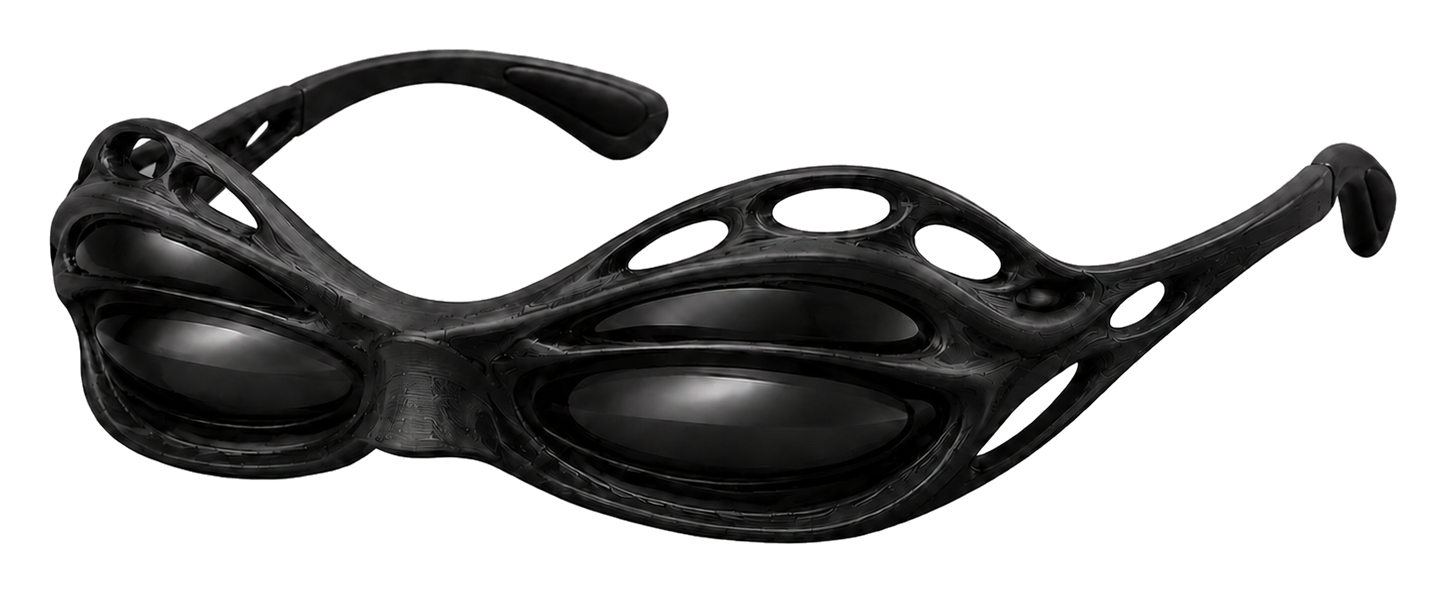
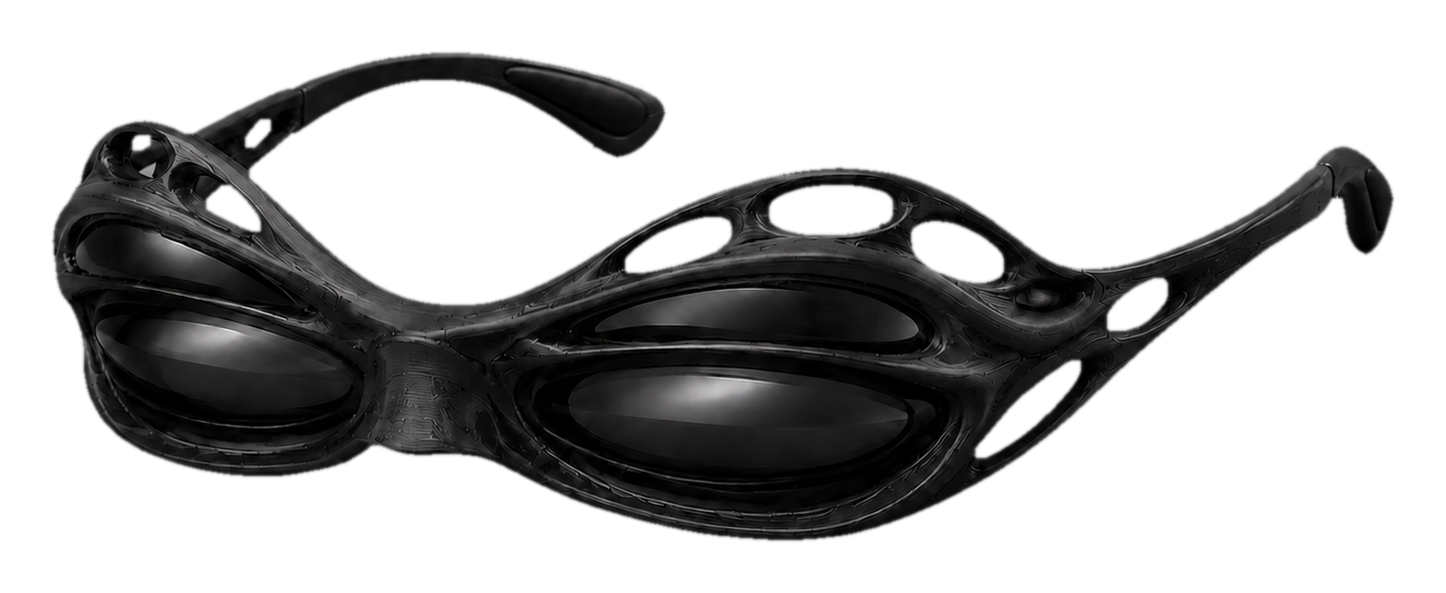
Fix product cutout edges and oversized crop

diff --git a/src/styles.css b/src/styles.css
@@ -318,7 +318,7 @@ a,
   z-index: 2;
   left: 50%;
   top: 56%;
-  width: min(118vw, 1760px);
+  width: min(96vw, 1440px);
   max-width: none;
   transform: translate(-50%, -50%);
   object-fit: contain;
@@ -770,8 +770,8 @@ a,
   }
 
   .giant-product {
-    top: 62%;
-    width: 150vw;
+    top: 58%;
+    width: 110vw;
   }
 
   .object-section {

diff --git a/src/App.jsx b/src/App.jsx
@@ -34,7 +34,7 @@ const COLORWAYS = {
   heat: {
     label: "HEAT",
     number: "03",
-    product: asset("product-heat-cutout.webp"),
+    product: asset("product-heat-cutout.png"),
     fallback: asset("product-heat-white.jpg"),
     card: asset("product-heat-white.jpg"),
     campaign: asset("campaign-heat.jpg"),

diff --git a/scripts/clean-cutouts.py b/scripts/clean-cutouts.py
@@ -1,0 +1,91 @@
+#!/usr/bin/env python3
+"""Remove white matte fringes from the transparent product cutouts."""
+
+from pathlib import Path
+
+import numpy as np
+from PIL import Image, ImageFilter
+from scipy import ndimage
+
+
+ROOT = Path(__file__).resolve().parents[1]
+ASSETS = ROOT / "public" / "assets"
+
+
+def nearest_interior_rgb(rgb: np.ndarray, alpha: np.ndarray, band_px: int) -> np.ndarray:
+    visible = alpha > 0
+    distance = ndimage.distance_transform_edt(visible)
+    interior = (alpha >= 250) & (distance > band_px)
+    if not interior.any():
+        return rgb
+
+    _, indices = ndimage.distance_transform_edt(~interior, return_indices=True)
+    nearest = rgb[indices[0], indices[1]]
+    edge = visible & ((distance <= band_px) | (alpha < 250))
+    cleaned = rgb.copy()
+    cleaned[edge] = nearest[edge]
+    return cleaned
+
+
+def clean_asset(
+    filename: str,
+    *,
+    erode_px: int,
+    white_key: bool = False,
+    output: str | None = None,
+) -> None:
+    path = ASSETS / filename
+    image = Image.open(path).convert("RGBA")
+    rgba = np.asarray(image).copy()
+    rgb = rgba[..., :3]
+    alpha = rgba[..., 3]
+
+    if white_key:
+        channel_max = rgb.max(axis=2).astype(np.float32)
+        channel_min = rgb.min(axis=2).astype(np.float32)
+        saturation = (channel_max - channel_min) / np.maximum(channel_max, 1)
+        candidates = (channel_max >= 190) & (saturation <= 0.28) & (alpha > 48)
+        labels, count = ndimage.label(candidates)
+        matte = np.zeros_like(candidates)
+        for label, bounds in enumerate(ndimage.find_objects(labels), start=1):
+            if bounds is None:
+                continue
+            y_bounds, x_bounds = bounds
+            center_x = (x_bounds.start + x_bounds.stop) / 2
+            center_y = (y_bounds.start + y_bounds.stop) / 2
+            component = labels[bounds] == label
+            area = int(component.sum())
+            is_frame_opening = (
+                area >= 120
+                and (center_y < 510 or center_x > 1600)
+            )
+            if is_frame_opening:
+                matte[bounds] |= component
+        matte = ndimage.binary_dilation(matte, iterations=2)
+        alpha[matte] = 0
+        alpha[alpha < 48] = 0
+
+    rgb = nearest_interior_rgb(rgb, alpha, band_px=erode_px + 2)
+
+    alpha_image = Image.fromarray(alpha, mode="L")
+    alpha_image = alpha_image.filter(ImageFilter.MinFilter(erode_px * 2 + 1))
+    alpha_image = alpha_image.filter(ImageFilter.GaussianBlur(0.55))
+
+    result = np.dstack((rgb, np.asarray(alpha_image)))
+    output_path = ASSETS / output if output else path
+    Image.fromarray(result, mode="RGBA").save(output_path, optimize=True)
+
+
+def main() -> None:
+    clean_asset("product-black-cutout.png", erode_px=1)
+    clean_asset("product-pearl-cutout.png", erode_px=1)
+    clean_asset(
+        "product-heat-cutout.webp",
+        erode_px=2,
+        white_key=True,
+        output="product-heat-cutout.png",
+    )
+
+
+if __name__ == "__main__":
+    main()

diff --git a/AGENTS.md b/AGENTS.md
@@ -13,5 +13,6 @@ Build app UI in `src/`. Keep `.openai/hosting.json`, `worker/index.js`, `scripts
 - The approved visual target is `reference/selected-mockup.png`.
 - Keep the page predominantly black, charcoal, smoky gray, and chrome. Orange-to-pink belongs on the HEAT eyewear and small active-state accents only; never reintroduce a large colored background.
 - Preserve the exact eyewear silhouette from the supplied product photos, especially the narrow organic central nose bridge. Never stretch or redraw the eyewear to fill a slot.
+- Product cutouts must have transparent openings and clean, matte-free edges on black. Keep the oversized campaign product fully legible instead of cropping the silhouette aggressively.
 - Use the supplied DFRBS campaign imagery and wordmark; do not substitute generic fashion assets.
 - The repository must stay GitHub-ready: relative asset paths, a clean README, a production build, and no secrets or machine-specific paths.
